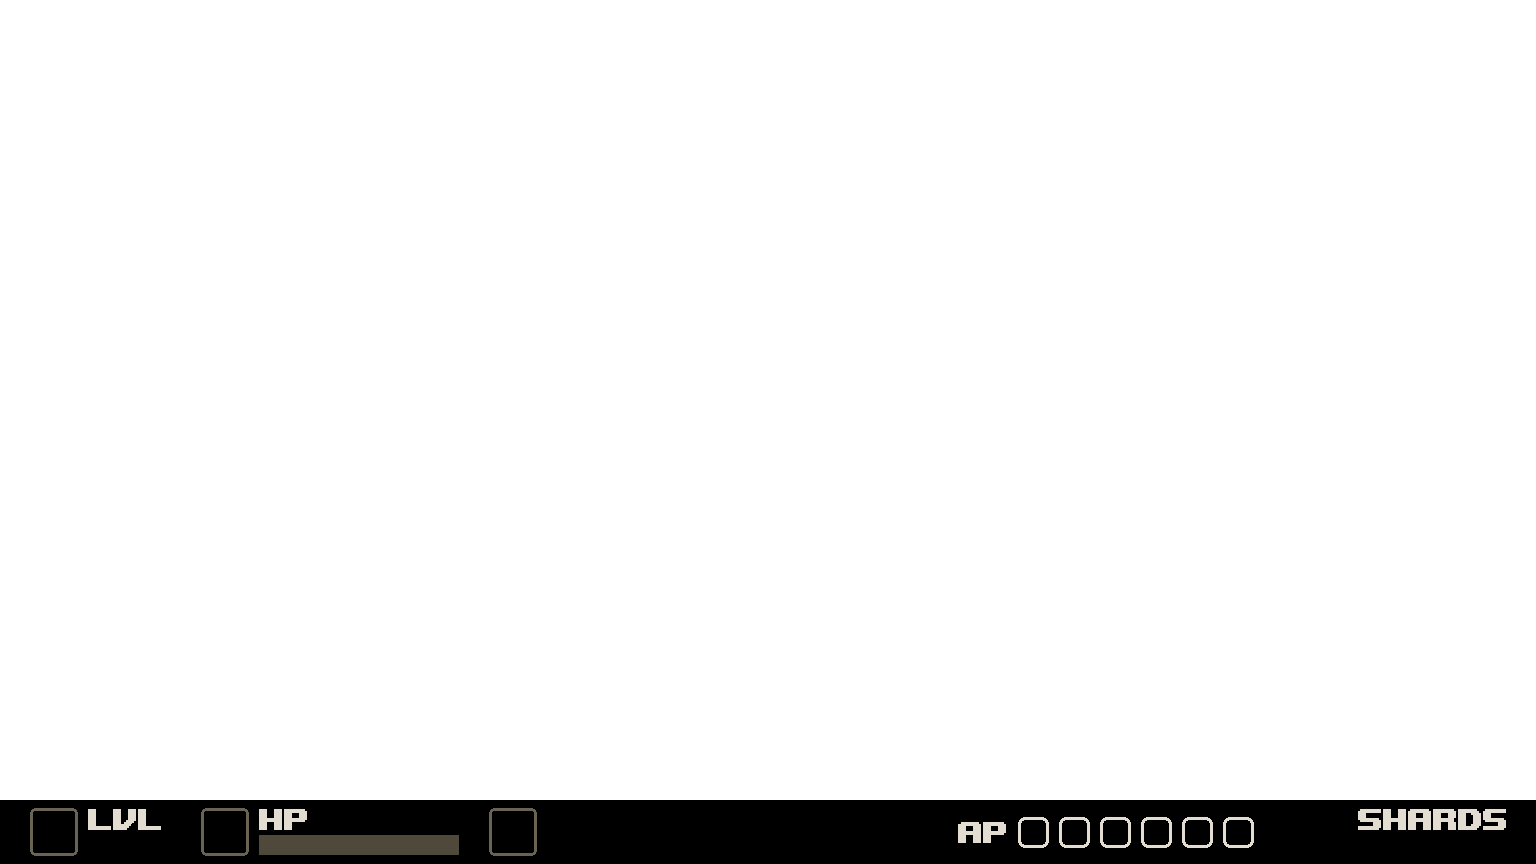
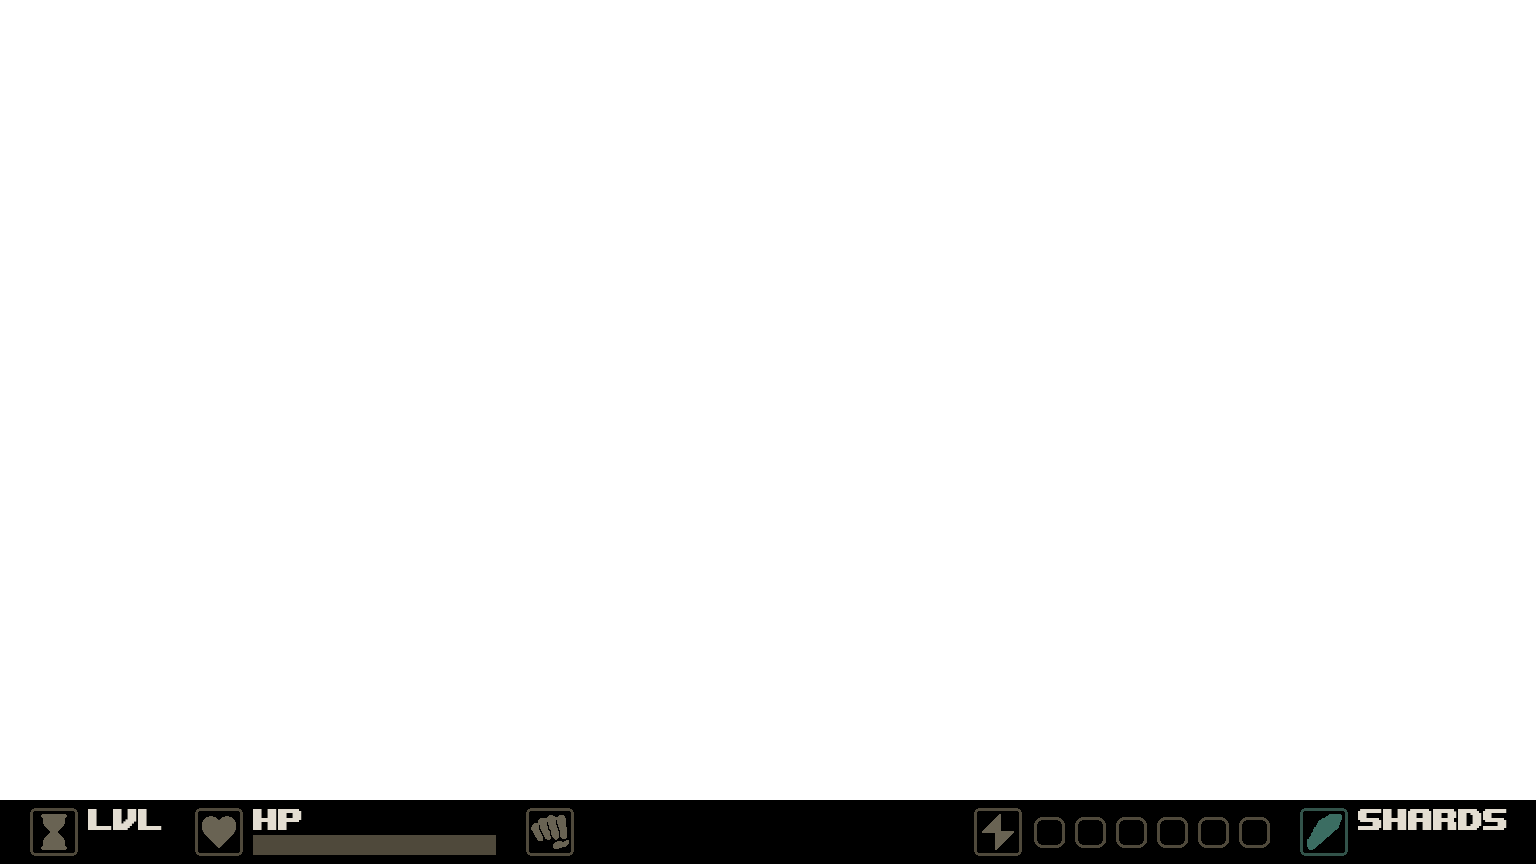
v0.2.12

diff --git a/src/gui/HUD.java b/src/gui/HUD.java
@@ -57,10 +57,10 @@ public class HUD {
 
         if (pixelFont == null) return;
 
-        g2.setFont(pixelFont.deriveFont(45f));
+        g2.setFont(pixelFont.deriveFont(42f));
         g2.setRenderingHint(RenderingHints.KEY_TEXT_ANTIALIASING, RenderingHints.VALUE_TEXT_ANTIALIAS_OFF);
         g2.setColor(Color.decode("#3b6d62"));
-        g2.drawString(String.valueOf(gp.itemManager.witherShards), 1358, 857);
+        g2.drawString(String.valueOf(gp.itemManager.witherShards), 1358, 855);
 
     }
 

diff --git a/src/main/Sound.java b/src/main/Sound.java
@@ -13,14 +13,16 @@ public class Sound {
     float volumeURL[] = new float[30];
 
     public Sound() {
+
         soundURL[0]  = getClass().getResource("/sound/ambience_wind.wav");
         volumeURL[0] = 1.0f;
 
         soundURL[1]  = getClass().getResource("/sound/ambience_water.wav");
-        volumeURL[1] = 0.5f;
+        volumeURL[1] = 0.1f;
 
         soundURL[2]  = getClass().getResource("/sound/load_dungeon.wav");
         volumeURL[2] = 1.0f;
+
     }
 
     public void setFile(int i) {

diff --git a/src/main/GamePanel.java b/src/main/GamePanel.java
@@ -84,8 +84,9 @@ public class GamePanel extends Canvas implements Runnable {
 
     public void loadMap() {
         oSetter.setObject();
-        playSFX(1);
+        playSFX(2);
         playMusic(0);
+        playMusic(1);
         gameState = worldState;
     }
 
